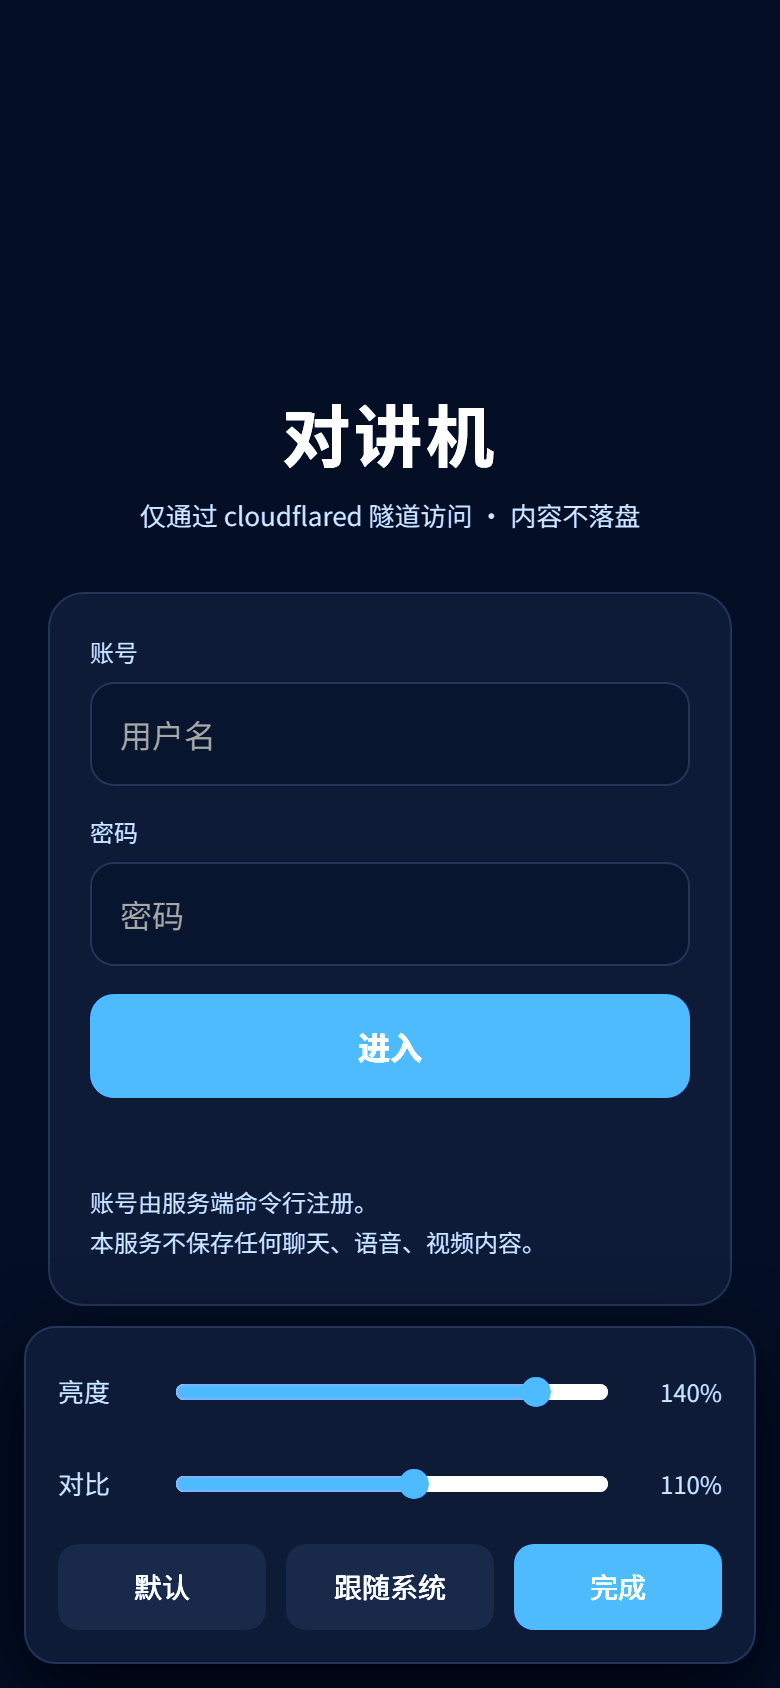
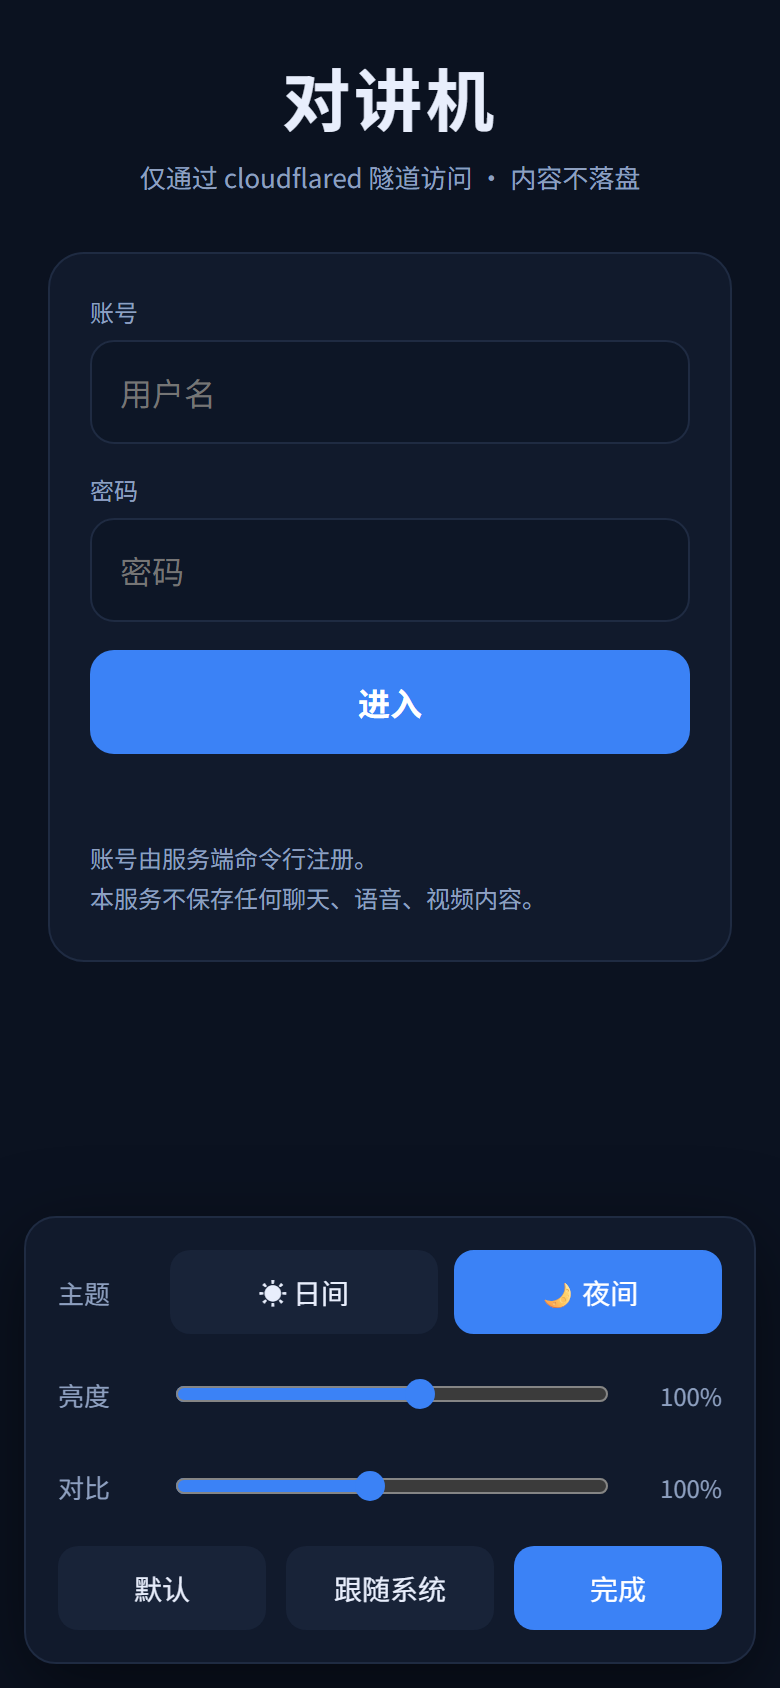
feat: 日间/夜间主题切换
所有颜色改为 CSS 变量并由 data-theme 驱动，新增 light 配色（背景/卡片/气泡/输入框/按钮/通话界面全覆盖）；顶栏图标随主题变化，用户未手动设置时跟随系统 prefers-color-scheme，内联脚本避免首屏闪烁。

diff --git a/public/index.html b/public/index.html
@@ -7,13 +7,36 @@
 <meta name="format-detection" content="telephone=no">
 <title>对讲机</title>
 <style>
+/* 颜色全部走变量，由 data-theme 切换日间/夜间 */
 :root{
-  --bg:#0b1220; --bg2:#111a2c; --line:#1f2b42; --fg:#e8eefc; --dim:#8ea0c0;
-  --accent:#3b82f6; --accent2:#22c55e; --danger:#ef4444; --warn:#f59e0b;
   --safe-b:env(safe-area-inset-bottom,0px); --safe-t:env(safe-area-inset-top,0px);
+  --accent:#3b82f6; --accent2:#22c55e; --danger:#ef4444; --warn:#f59e0b;
+  --on-accent:#ffffff;
+}
+:root[data-theme="dark"]{
+  --bg:#0b1220; --bg2:#111a2c; --line:#1f2b42; --fg:#e8eefc; --dim:#8ea0c0;
+  --input:#0d1626; --card:#182338; --card-active:#22304a; --avatar-bg:#25406b; --avatar-fg:#cfe0ff;
+  --bubble:#182338; --bubble-me:#1d4ed8; --bubble-meta:#9fb3d6;
+  --callbg:#05080f; --overlay:rgba(6,10,20,.94); --mask:rgba(6,10,20,.92);
+  --err:#fca5a5;
+  --dangerbar:#4a1d1d; --dangerbar-fg:#fecaca; --recbar:#7f1d1d; --recbar-fg:#fee2e2;
+  --shadow:0 12px 40px rgba(0,0,0,.5);
+}
+:root[data-theme="light"]{
+  --bg:#f5f7fb; --bg2:#ffffff; --line:#dbe3f0; --fg:#0f172a; --dim:#5a6a84;
+  --input:#f1f5fb; --card:#eaf0f9; --card-active:#dde7f6; --avatar-bg:#d3e2fb; --avatar-fg:#1d4ed8;
+  --bubble:#eaf0f9; --bubble-me:#2563eb; --bubble-meta:#5a6a84;
+  --callbg:#0a0f18; --overlay:rgba(15,23,42,.72); --mask:rgba(255,255,255,.96);
+  --err:#b91c1c;
+  --dangerbar:#fee2e2; --dangerbar-fg:#991b1b; --recbar:#fecaca; --recbar-fg:#991b1b;
+  --shadow:0 12px 32px rgba(15,23,42,.14);
+  --accent:#2563eb; --accent2:#16a34a; --danger:#dc2626; --warn:#d97706;
 }
 *{box-sizing:border-box;-webkit-tap-highlight-color:transparent}
+html[data-theme="light"]{color-scheme:light}
+html[data-theme="dark"]{color-scheme:dark}
 html,body{margin:0;height:100%;background:var(--bg);color:var(--fg);
+  transition:background-color .18s,color .18s}
   font:15px/1.5 -apple-system,"Noto Sans SC","PingFang SC","Microsoft YaHei",sans-serif;
   overscroll-behavior:none}
 body{display:flex;flex-direction:column;height:100dvh;overflow:hidden}
@@ -31,15 +54,15 @@ input{font:inherit;color:inherit}
 .field{margin-bottom:14px}
 .field label{display:block;font-size:12px;color:var(--dim);margin-bottom:6px}
 .field input{width:100%;padding:13px 14px;border-radius:12px;border:1px solid var(--line);
-  background:#0d1626;outline:none;font-size:16px}
+  background:var(--input);outline:none;font-size:16px}
 .field input:focus{border-color:var(--accent)}
 .btn{display:flex;align-items:center;justify-content:center;gap:8px;width:100%;
   padding:14px;border-radius:12px;background:var(--accent);color:#fff;font-weight:600;font-size:16px}
 .btn:active{transform:scale(.985)}
-.btn.ghost{background:#182338;color:var(--fg)}
+.btn.ghost{background:var(--card);color:var(--fg)}
 .btn.danger{background:var(--danger)}
 .tip{margin-top:14px;color:var(--dim);font-size:12px;line-height:1.7}
-.err{color:#fca5a5;font-size:13px;min-height:18px;margin-top:10px}
+.err{color:var(--err);font-size:13px;min-height:18px;margin-top:10px}
 
 /* 大厅 */
 .topbar{display:flex;align-items:center;gap:10px;padding:calc(12px + var(--safe-t)) 14px 12px;
@@ -47,13 +70,13 @@ input{font:inherit;color:inherit}
 .topbar .title{font-weight:600;flex:1;min-width:0;overflow:hidden;text-overflow:ellipsis;white-space:nowrap}
 .badge{font-size:11px;color:var(--dim);border:1px solid var(--line);border-radius:999px;padding:3px 8px}
 .iconbtn{width:38px;height:38px;border-radius:12px;display:flex;align-items:center;justify-content:center;
-  background:#182338}
-.iconbtn:active{background:#22304a}
+  background:var(--card)}
+.iconbtn:active{background:var(--card-active)}
 .list{flex:1;overflow-y:auto;-webkit-overflow-scrolling:touch;padding:10px 12px}
 .user-row{display:flex;align-items:center;gap:12px;padding:12px;border-radius:14px;background:var(--bg2);
   border:1px solid var(--line);margin-bottom:10px}
-.avatar{width:42px;height:42px;border-radius:50%;background:#25406b;display:flex;align-items:center;
-  justify-content:center;font-weight:700;color:#cfe0ff;flex:none}
+.avatar{width:42px;height:42px;border-radius:50%;background:var(--avatar-bg);display:flex;align-items:center;
+  justify-content:center;font-weight:700;color:var(--avatar-fg);flex:none}
 .user-meta{flex:1;min-width:0}
 .user-name{font-weight:600}
 .user-sub{font-size:12px;color:var(--dim)}
@@ -64,64 +87,67 @@ input{font:inherit;color:inherit}
 /* 聊天 */
 .msgs{flex:1;overflow-y:auto;-webkit-overflow-scrolling:touch;padding:14px 12px 6px;display:flex;
   flex-direction:column;gap:10px}
-.bubble{max-width:78%;padding:9px 12px;border-radius:14px;background:#182338;align-self:flex-start;
+.bubble{max-width:78%;padding:9px 12px;border-radius:14px;background:var(--bubble);align-self:flex-start;
   word-break:break-word;white-space:pre-wrap}
-.bubble.me{align-self:flex-end;background:#1d4ed8}
-.bubble .meta{font-size:11px;color:#9fb3d6;margin-top:4px}
+.bubble.me{align-self:flex-end;background:var(--bubble-me);color:var(--on-accent)}
+.bubble .meta{font-size:11px;color:var(--bubble-meta);margin-top:4px}
 .bubble audio,.bubble video{max-width:100%;border-radius:10px;display:block}
 .bubble video{width:220px;background:#000}
 .sys{text-align:center;color:var(--dim);font-size:12px;padding:4px}
 .composer{display:flex;gap:8px;align-items:flex-end;padding:10px 10px calc(10px + var(--safe-b));
   border-top:1px solid var(--line);background:var(--bg2)}
 .composer textarea{flex:1;resize:none;min-height:42px;max-height:120px;padding:11px 12px;border-radius:12px;
-  border:1px solid var(--line);background:#0d1626;outline:none;font-size:16px;line-height:1.35}
+  border:1px solid var(--line);background:var(--input);outline:none;font-size:16px;line-height:1.35}
 .composer textarea:focus{border-color:var(--accent)}
 .send{width:46px;height:44px;border-radius:12px;background:var(--accent);display:flex;align-items:center;
   justify-content:center;flex:none}
-.rec{width:46px;height:44px;border-radius:12px;background:#182338;display:flex;align-items:center;
+.rec{width:46px;height:44px;border-radius:12px;background:var(--card);display:flex;align-items:center;
   justify-content:center;flex:none}
 .rec.on{background:var(--danger);animation:pulse 1s infinite}
 @keyframes pulse{50%{opacity:.55}}
 .diagbtn{position:absolute;right:12px;top:calc(52px + var(--safe-t));z-index:4;width:34px;height:34px;
-  border-radius:50%;background:rgba(30,41,59,.85);color:#cfe0ff;font-size:16px;
+  border-radius:50%;background:var(--card-active);color:var(--fg);font-size:16px;
   display:flex;align-items:center;justify-content:center}
 .diagpanel{position:absolute;left:10px;right:10px;bottom:96px;max-height:44vh;overflow:auto;z-index:5;
-  background:rgba(6,10,20,.92);border:1px solid var(--line);border-radius:12px;padding:10px 12px;
-  font-size:11px;line-height:1.5;color:#cfe0ff;white-space:pre-wrap;margin:0}
+  background:var(--mask);border:1px solid var(--line);border-radius:12px;padding:10px 12px;
+  font-size:11px;line-height:1.5;color:var(--fg);white-space:pre-wrap;margin:0}
 .theme-panel{position:fixed;left:12px;right:12px;bottom:calc(12px + var(--safe-b));z-index:60;
   background:var(--bg2);border:1px solid var(--line);border-radius:16px;padding:16px;display:none;
-  box-shadow:0 12px 40px rgba(0,0,0,.5)}
+  box-shadow:var(--shadow)}
 .theme-panel.show{display:block}
 .theme-panel .row{display:flex;align-items:center;gap:12px;margin-bottom:14px}
 .theme-panel .row:last-child{margin-bottom:0}
 .theme-panel label{font-size:13px;color:var(--dim);width:44px;flex:none}
 .theme-panel input[type=range]{flex:1;height:28px;accent-color:var(--accent)}
 .theme-panel .val{font-size:12px;color:var(--dim);width:42px;text-align:right;flex:none}
+.theme-panel .seg{display:flex;gap:8px;flex:1}
+.theme-panel .seg button{flex:1;padding:10px;border-radius:10px;background:var(--card);font-size:14px;border:1px solid transparent}
+.theme-panel .seg button.on{background:var(--accent);color:var(--on-accent);border-color:var(--accent)}
 .theme-panel .acts{display:flex;gap:10px;margin-top:14px}
-.theme-panel .acts button{flex:1;padding:11px;border-radius:10px;background:#182338;font-size:14px}
+.theme-panel .acts button{flex:1;padding:11px;border-radius:10px;background:var(--card);font-size:14px}
 .theme-panel .acts button.primary{background:var(--accent);color:#fff}
 .theme-mask{position:fixed;inset:0;z-index:59;background:transparent;display:none}
 .theme-mask.show{display:block}
-.perm-bar{padding:8px 14px;background:#4a1d1d;color:#fecaca;font-size:12px;line-height:1.5}
+.perm-bar{padding:8px 14px;background:var(--dangerbar);color:var(--dangerbar-fg);font-size:12px;line-height:1.5}
 .perm-bar:empty{display:none}
-.recdot{position:absolute;left:50%;bottom:96px;transform:translateX(-50%);background:#7f1d1d;
-  color:#fee2e2;padding:6px 14px;border-radius:999px;font-size:13px}
+.recdot{position:absolute;left:50%;bottom:96px;transform:translateX(-50%);background:var(--recbar);
+  color:var(--recbar-fg);padding:6px 14px;border-radius:999px;font-size:13px}
 
 /* 来电 / 通话 */
-.overlay{position:fixed;inset:0;background:rgba(6,10,20,.94);display:flex;flex-direction:column;
+.overlay{position:fixed;inset:0;background:var(--overlay);display:flex;flex-direction:column;
   align-items:center;justify-content:center;gap:18px;z-index:50;padding:24px;text-align:center}
 .overlay .who{font-size:22px;font-weight:700}
 .overlay .sub{color:var(--dim)}
 .overlay .row{display:flex;gap:18px;margin-top:12px}
 .circbtn{width:64px;height:64px;border-radius:50%;display:flex;align-items:center;justify-content:center;
-  background:#182338;font-size:24px}
+  background:var(--card);font-size:24px}
 .circbtn.accept{background:var(--accent2)}
 .circbtn.hang{background:var(--danger)}
-#call-layer{background:#05080f;justify-content:stretch;align-items:stretch;padding:0}
+#call-layer{background:var(--callbg);justify-content:stretch;align-items:stretch;padding:0}
 #remote-audio{display:none}
 #remote-video{position:absolute;inset:0;width:100%;height:100%;object-fit:cover;background:#05080f}
 #local-video{position:absolute;right:12px;top:calc(12px + var(--safe-t));width:104px;height:150px;
-  object-fit:cover;border-radius:12px;border:1px solid #1f2b42;background:#000;z-index:2}
+  object-fit:cover;border-radius:12px;border:1px solid var(--line);background:#000;z-index:2}
 .call-top{position:absolute;left:0;right:0;top:0;padding:calc(10px + var(--safe-t)) 14px 10px;
   display:flex;align-items:center;gap:10px;z-index:3;
   background:linear-gradient(180deg,rgba(0,0,0,.55),transparent)}
@@ -130,15 +156,21 @@ input{font:inherit;color:inherit}
   display:flex;justify-content:center;gap:16px;z-index:3;
   background:linear-gradient(0deg,rgba(0,0,0,.6),transparent)}
 .call-bottom .circbtn{width:56px;height:56px;background:rgba(30,41,59,.85)}
-.call-bottom .circbtn.off{background:var(--warn);color:#111}
+.call-bottom .circbtn.off{background:var(--warn);color:var(--on-accent)}
 .call-bottom .circbtn.hang{background:var(--danger)}
-.unlock{position:absolute;left:50%;bottom:120px;transform:translateX(-50%);background:#1d4ed8;
+.unlock{position:absolute;left:50%;bottom:120px;transform:translateX(-50%);background:var(--bubble-me);color:var(--on-accent);
   padding:10px 18px;border-radius:999px;font-size:13px;z-index:4}
-.avatar-big{width:110px;height:110px;border-radius:50%;background:#25406b;display:flex;
+.avatar-big{width:110px;height:110px;border-radius:50%;background:var(--avatar-bg);color:var(--avatar-fg);display:flex;
   align-items:center;justify-content:center;font-size:44px;font-weight:700}
 </style>
 </head>
 <body>
+<script>
+// 尽早设定主题，避免首屏闪烁
+(function(){try{var t=localStorage.getItem("ic_theme");var m=t?JSON.parse(t).mode:null;
+if(!m){m=(window.matchMedia&&window.matchMedia("(prefers-color-scheme: light)").matches)?"light":"dark";}
+document.documentElement.setAttribute("data-theme",m);}catch(e){document.documentElement.setAttribute("data-theme","dark");}})();
+</script>
 
 <!-- 登录 -->
 <div id="screen-login" class="screen">
@@ -189,6 +221,12 @@ input{font:inherit;color:inherit}
 <!-- 亮度调节 -->
 <div class="theme-mask" id="theme-mask"></div>
 <div class="theme-panel" id="theme-panel">
+  <div class="row"><label>主题</label>
+    <div class="seg">
+      <button id="theme-day">☀ 日间</button>
+      <button id="theme-night">🌙 夜间</button>
+    </div>
+  </div>
   <div class="row"><label>亮度</label><input id="theme-bright" type="range" min="20" max="160" step="1"><span class="val" id="theme-bright-val">100%</span></div>
   <div class="row"><label>对比</label><input id="theme-contrast" type="range" min="60" max="150" step="1"><span class="val" id="theme-contrast-val">100%</span></div>
   <div class="acts">
@@ -1015,10 +1053,26 @@ input{font:inherit;color:inherit}
   // ---------------- 亮度 / 对比 ----------------
   // 用 CSS filter 作用在 <html> 上，不影响布局，也不动颜色变量；
   // 值存 localStorage，下次打开沿用；「跟随系统」读 prefers-color-scheme 给一套舒适默认。
-  var TH = { bright: 100, contrast: 100 };
+  // mode: dark 夜间 / light 日间
+  var TH = { mode: 'dark', bright: 100, contrast: 100 };
+
+  function systemMode() {
+    return (window.matchMedia && window.matchMedia('(prefers-color-scheme: light)').matches) ? 'light' : 'dark';
+  }
+
+  function setMode(mode) {
+    TH.mode = (mode === 'light') ? 'light' : 'dark';
+    TH.bright = 100;
+    TH.contrast = 100;
+    applyTheme();
+    saveTheme();
+  }
 
   function applyTheme() {
     var root = document.documentElement;
+    root.setAttribute('data-theme', TH.mode === 'light' ? 'light' : 'dark');
+    var meta = document.querySelector('meta[name="theme-color"]');
+    if (meta) meta.setAttribute('content', TH.mode === 'light' ? '#f5f7fb' : '#0b1220');
     var f = [];
     if (TH.bright !== 100) f.push('brightness(' + (TH.bright / 100) + ')');
     if (TH.contrast !== 100) f.push('contrast(' + (TH.contrast / 100) + ')');
@@ -1026,19 +1080,29 @@ input{font:inherit;color:inherit}
     var bv = $('theme-bright'), cv = $('theme-contrast');
     if (bv) { bv.value = TH.bright; $('theme-bright-val').textContent = TH.bright + '%'; }
     if (cv) { cv.value = TH.contrast; $('theme-contrast-val').textContent = TH.contrast + '%'; }
+    var day = $('theme-day'), night = $('theme-night');
+    if (day) day.classList.toggle('on', TH.mode === 'light');
+    if (night) night.classList.toggle('on', TH.mode === 'dark');
+    ['btn-theme', 'btn-theme-chat'].forEach(function (id) {
+      var el = $(id);
+      if (el) el.textContent = TH.mode === 'light' ? '☀' : '◐';
+    });
   }
 
   function saveTheme() {
     try {
       localStorage.setItem('ic_theme', JSON.stringify(TH));
+      localStorage.setItem('ic_theme_manual', '1');
     } catch (e) { /* 隐私模式忽略 */ }
   }
 
   function loadTheme() {
+    TH.mode = systemMode();
     try {
       var raw = localStorage.getItem('ic_theme');
       if (raw) {
         var o = JSON.parse(raw);
+        if (o && (o.mode === 'light' || o.mode === 'dark')) TH.mode = o.mode;
         if (o && typeof o.bright === 'number') TH.bright = Math.min(160, Math.max(20, o.bright));
         if (o && typeof o.contrast === 'number') TH.contrast = Math.min(150, Math.max(60, o.contrast));
       }
@@ -1047,12 +1111,11 @@ input{font:inherit;color:inherit}
   }
 
   function followSystem() {
-    var dark = window.matchMedia && window.matchMedia('(prefers-color-scheme: dark)').matches;
-    // 深色主题默认偏暗，提亮一点更舒服；浅色主题保持原样
-    TH.bright = dark ? 125 : 100;
-    TH.contrast = dark ? 105 : 100;
+    TH.mode = systemMode();
+    TH.bright = 100;
+    TH.contrast = 100;
     applyTheme();
-    saveTheme();
+    try { localStorage.removeItem('ic_theme_manual'); } catch (e) {}
   }
 
   function toggleThemePanel(forceOpen) {
@@ -1087,6 +1150,20 @@ input{font:inherit;color:inherit}
       var el = $(id);
       if (el) el.addEventListener('click', function (e) { e.stopPropagation(); toggleThemePanel(); });
     });
+    var dayBtn = $('theme-day'), nightBtn = $('theme-night');
+    if (dayBtn) dayBtn.addEventListener('click', function () { setMode('light'); });
+    if (nightBtn) nightBtn.addEventListener('click', function () { setMode('dark'); });
+    // 用户没手动设置过时，跟随系统主题变化
+    if (window.matchMedia) {
+      var mq = window.matchMedia('(prefers-color-scheme: light)');
+      var onChange = function () {
+        var manual = false;
+        try { manual = localStorage.getItem('ic_theme_manual') === '1'; } catch (e) {}
+        if (!manual) { TH.mode = systemMode(); applyTheme(); }
+      };
+      if (mq.addEventListener) mq.addEventListener('change', onChange);
+      else if (mq.addListener) mq.addListener(onChange);
+    }
     $('theme-mask').addEventListener('click', function () { toggleThemePanel(false); });
     $('theme-close').addEventListener('click', function () { toggleThemePanel(false); });
     $('theme-reset').addEventListener('click', function () {

diff --git a/README.md b/README.md
@@ -30,7 +30,8 @@
 | 视频片段 | 从相册选短视频发送，同样只在两端内存 |
 | 语音通话 | WebRTC 点对点，服务端只转 SDP/ICE |
 | 视频通话 | 前后摄像头、静音、关摄像头、本地小窗 |
-| 亮度调节 | 顶栏 ◐ 打开，可调亮度 20–160%、对比度 60–150%，记忆到本地，支持跟随系统 |
+| 日间 / 夜间 | 顶栏 ◐ 打开面板切换，两套完整配色（背景、气泡、输入框、按钮、通话界面全部跟随） |
+| 亮度调节 | 面板内可调亮度 20–160%、对比度 60–150%，记忆到本地，支持跟随系统 |
 | 访问控制 | 只监听 127.0.0.1，公网 IP 无法直连，且校验 Cloudflare 请求头 |
 | 账号安全 | 同账号重复登录踢掉旧连接；来电 45 秒无人接听自动取消 |
 
@@ -176,7 +177,8 @@ systemctl status intercom
 | ![](docs/03-聊天.png) | 文字 / 语音 / 视频消息 |
 | ![](docs/04-来电.png) | 来电（震动 + 提示音） |
 | ![](docs/05-视频通话.png) | 视频通话中 |
-| ![](docs/06-亮度调节.png) | 亮度 / 对比度调节 |
+| ![](docs/06-亮度调节.png) | 夜间主题与亮度调节 |
+| ![](docs/07-日间.png) | 日间主题 |
 
 ## 命令行参数
 
